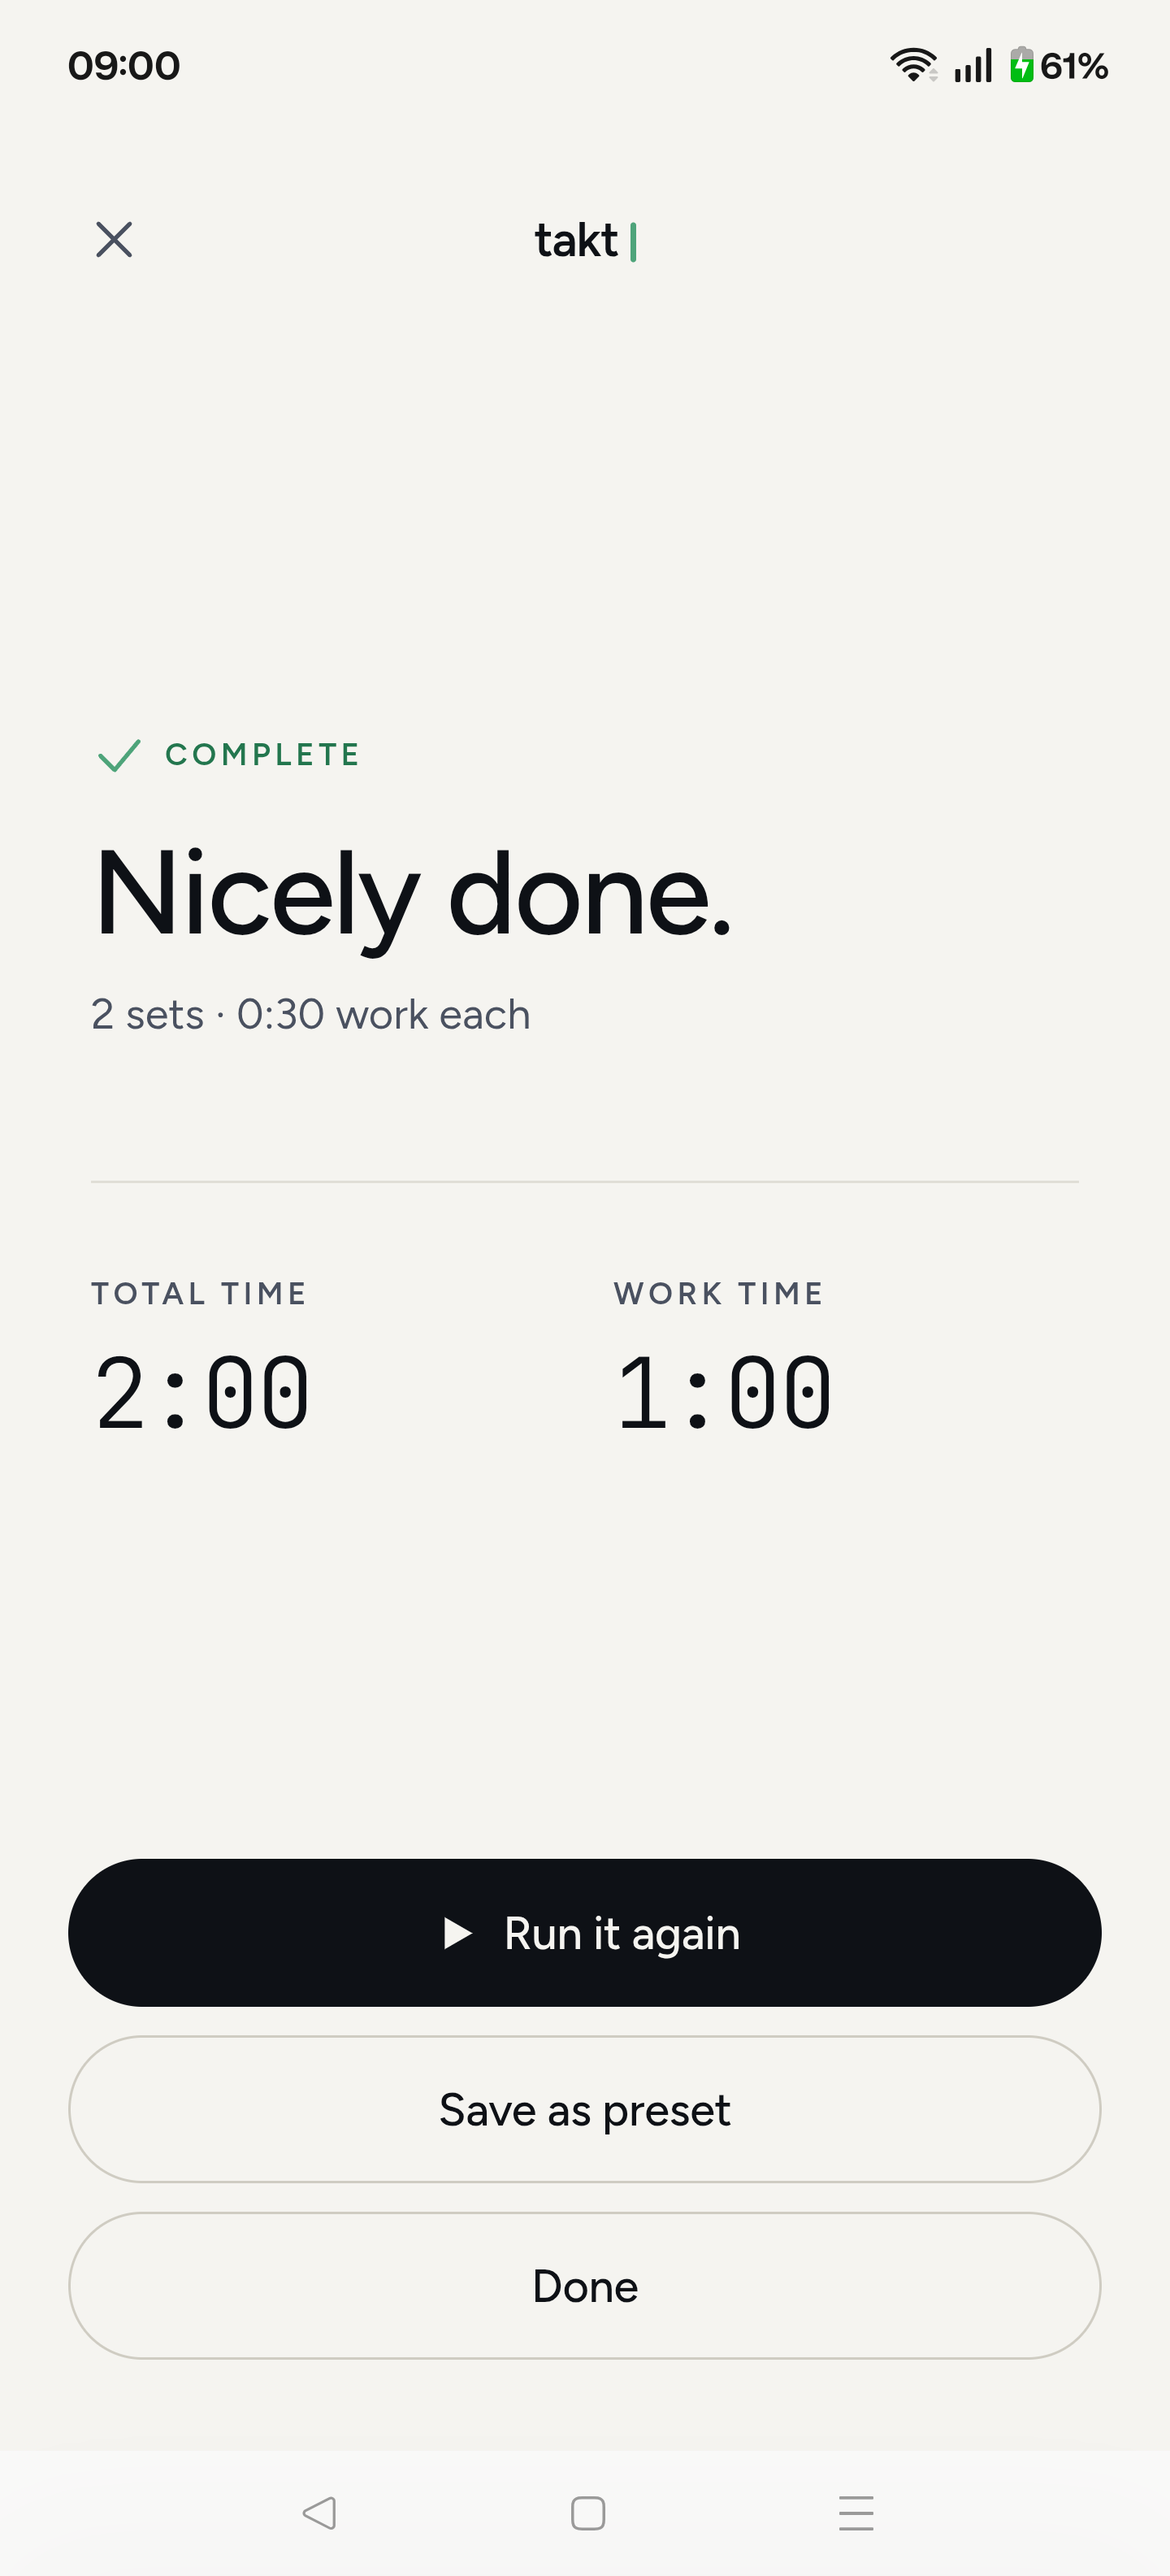
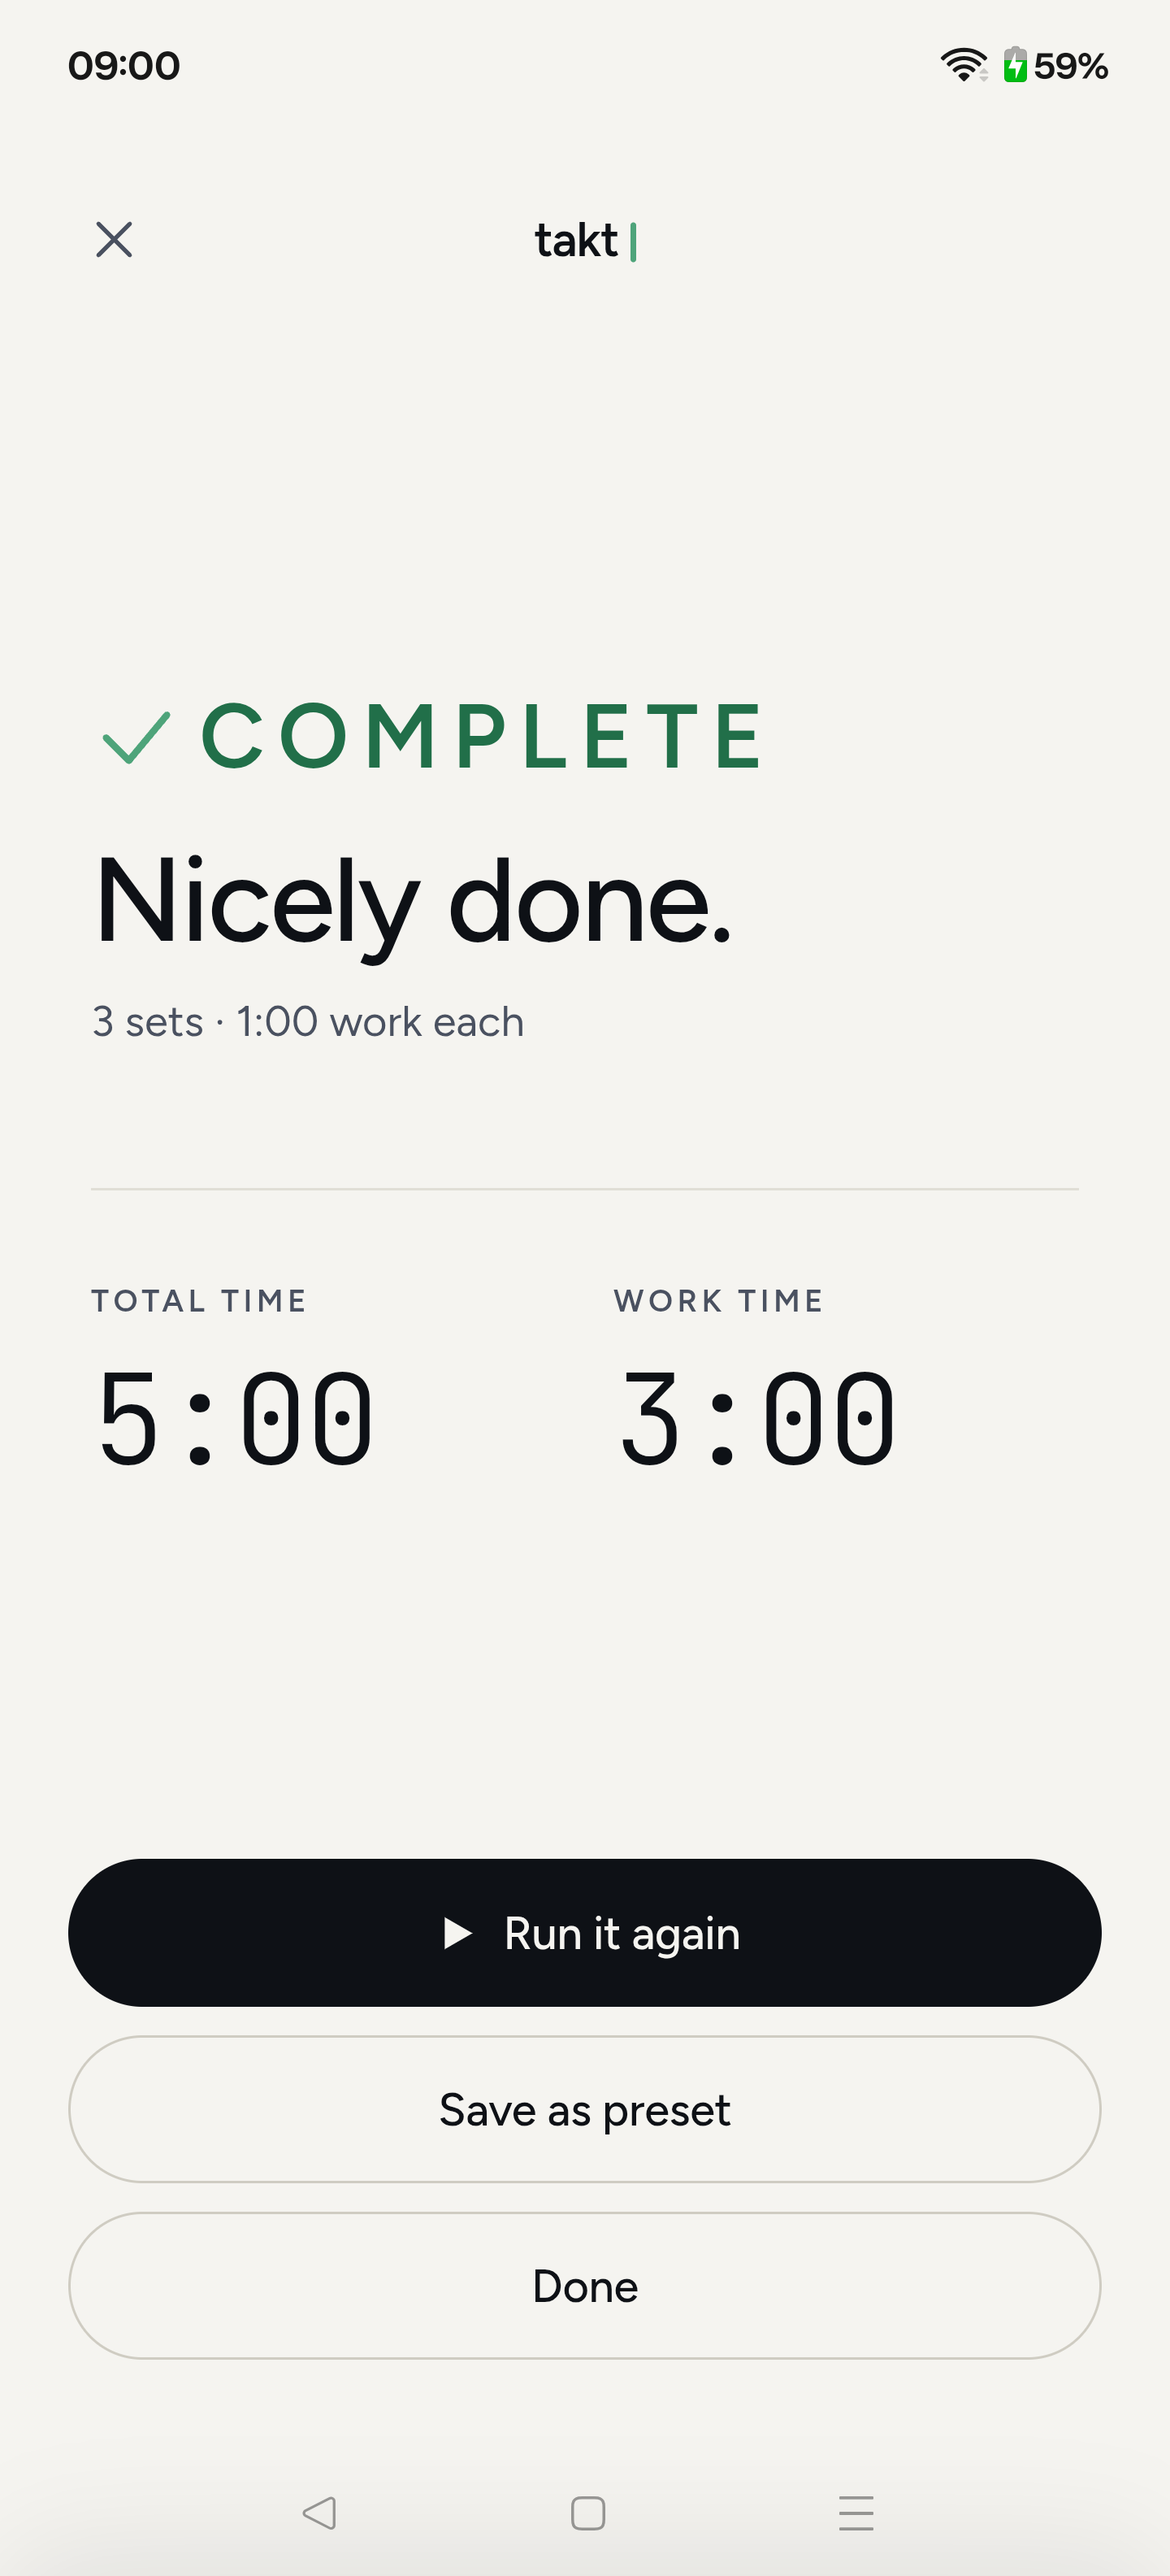
store-assets: refresh Play listing for 1.2.0 + dark screenshots (#159) (#165)
* store-assets: refresh captions + add dark Run screenshot to the set

Prep for the 1.2.0 listing refresh:
- Run caption now reflects the at-a-distance readability feature.
- Add run-dark.png (rest phase, dark) so the listing shows the Run screen in
  both appearances (issue #159); set grows 6 → 7 shots, filenames renumbered.
- README documents the dark-capture step (cmd uimode night yes/no).

Captures + regenerated upload/ PNGs follow once the device is reconnected.

* store-assets: refresh listing captures + upload for 1.2.0

Recapture the screens changed by the at-a-distance release (run, stopwatch,
complete) from the shipping build (versionCode 5), add the dark rest screen
(run-dark) for issue #159, and refresh settings from the current build (drops
the stale language toggle; now shows the Appearance control). Home and presets
captures kept (unchanged screens, already populated). Regenerated upload/ is
the 7-shot set 01–07 plus feature graphic + icon; stale old-numbered PNGs
removed.

---------

diff --git a/store-assets/README.md b/store-assets/README.md
@@ -25,7 +25,7 @@ Play Console → **Grow users → Store presence → Store listings** (graphics 
 | --------------------------------- | --------- | -------------------------------- | -------------------------------------- |
 | `app-icon-512.png`                | 512×512   | App icon                         | Rarely (brand change only)             |
 | `feature-graphic-1024x500.png`    | 1024×500  | Feature graphic (required)       | Rarely                                 |
-| `01-home.png` … `06-settings.png` | 1080×1920 | Phone screenshots (min 2, max 8) | **Every release where the UI changed** |
+| `01-home.png` … `07-settings.png` | 1080×1920 | Phone screenshots (min 2, max 8) | **Every release where the UI changed** |
 
 Play's screenshot rules the generator already satisfies: PNG, each side 320–3840 px, and a safe 9:16 frame (1080×1920) so a tall device capture is never rejected for aspect ratio.
 
@@ -45,11 +45,23 @@ Play's screenshot rules the generator already satisfies: PNG, each side 320–38
    # …and when done: adb shell am broadcast -a com.android.systemui.demo -e command exit
    ```
 3. **Capture each screen** you want, into `captures/` (navigate the app, then):
+
    ```bash
    adb exec-out screencap -p > store-assets/captures/home.png
    ```
-   Keep the filenames the generator expects (`home`, `run`, `stopwatch`, `complete`, `presets`, `settings`), or edit the `SHOTS` list in `generate.mjs`.
+
+   Keep the filenames the generator expects (`home`, `run`, `run-dark`, `stopwatch`, `complete`, `presets`, `settings`), or edit the `SHOTS` list in `generate.mjs`.
+
    > Tip: the running-timer screen can occasionally capture as a black frame mid-transition — just re-capture.
+
+   **Dark shot (`run-dark.png`).** The listing shows the Run screen in both appearances (issue #159). The app follows the system theme, so flip the device to dark, navigate to a rest phase (the accent pill is the clearest dark-mode cue), capture, then flip back:
+
+   ```bash
+   adb shell "cmd uimode night yes"   # device → dark
+   # …capture store-assets/captures/run-dark.png…
+   adb shell "cmd uimode night no"    # device → light
+   ```
+
 4. **Regenerate and review:**
    ```bash
    pnpm store:assets
